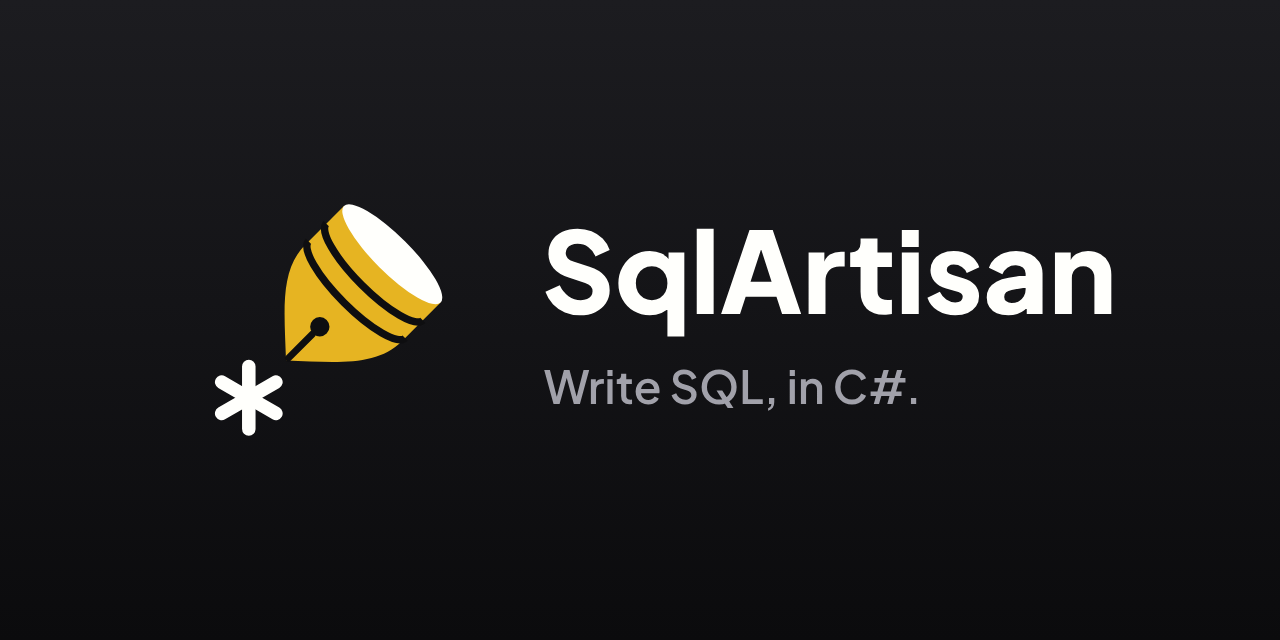
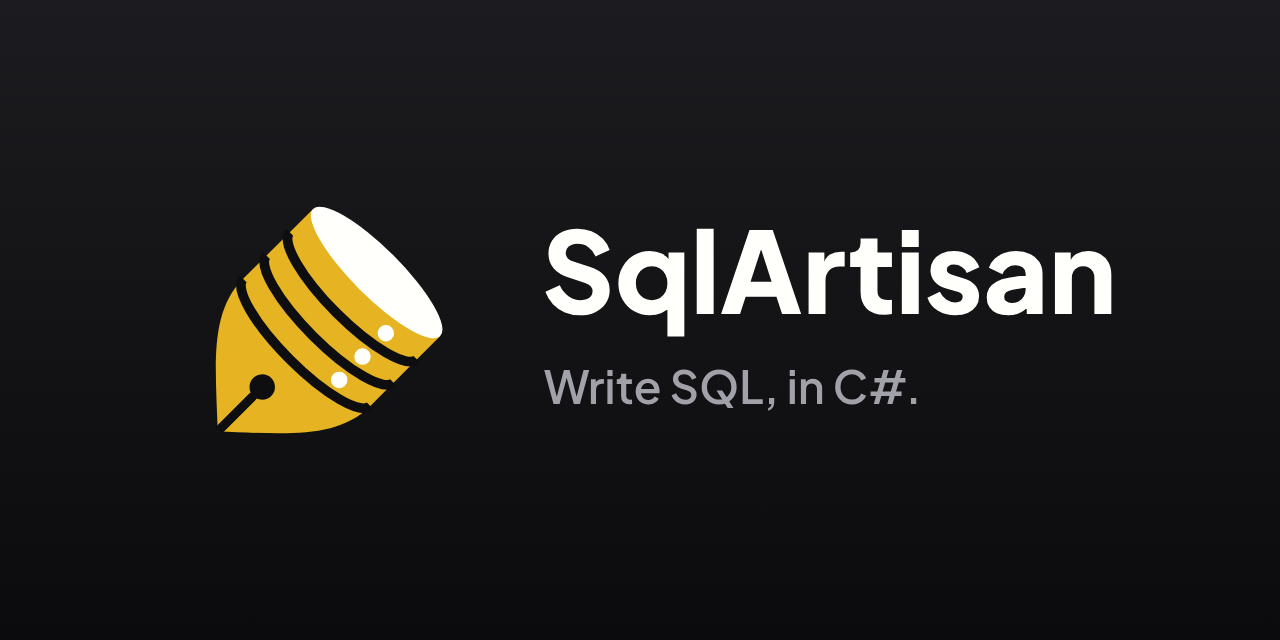
chore: Make the mark a nib cut from a stacked-disk database
The asterisk is gone: the pen alone, its body three stacked disks with a
light on each as the common database icon draws them, filling 69% of the
frame. docs/brand.md records why, and every color, face and proportion the
assets use; the social preview's SVG source is kept beside its PNG.

Claude-Session: https://claude.ai/code/session_01BXxxyWXz4Rjne6pSy1tMXN

Changed region(s): [[0.1562, 0.3125, 0.3438, 0.6875]]

diff --git a/docs/brand.md b/docs/brand.md
@@ -125,10 +125,10 @@ package ID and the namespace.
 
 Derived from the pillars and personality above; each rule names its source.
 
-- **Concept: a craftsman's tool meeting SQL.** The mark shows *Artisan* (a
-  hand tool) acting on *SQL* (a database or a code token, never letters: the
-  name sits beside the mark wherever it is shown small). A database cylinder
-  alone is generic and says neither half. *(Name)*
+- **Concept: a craftsman's tool made of the database.** The mark shows
+  *Artisan* (a hand tool) and the database it writes for as one shape, with no
+  letters or code glyph: the name sits beside the mark wherever it is shown
+  small. A database cylinder alone is generic and says neither half. *(Name)*
 - **Few, exact shapes.** Clean geometry, crisp edges, no 3D, gloss or texture
   that hides the form. The one allowance is the frame's: a faint top-to-bottom
   shade and a light edge, so a dark square keeps its outline on a dark page.
@@ -153,35 +153,40 @@ Derived from the pillars and personality above; each rule names its source.
 
 ## The mark
 
-A fountain-pen nib cut from a database cylinder, held at 45°, with the
-asterisk it has just written ahead of its tip.
+A fountain-pen nib cut from a database cylinder, held at 45°.
 
 | Part | Reads as |
 |---|---|
-| The pen's body: the lid and the two bands | the database the pen is cut from |
+| The white lid, three stacked disks and a white light on each | the database, drawn as the common database icon draws it |
 | The nib's point, slit and breather hole | writing by hand — the craft |
-| The `*` ahead of the tip | SQL (`SELECT *`), the thing written |
 
-The pen is shaped by the database because the library is: TableClassGen
-generates the table classes from the live schema, and the analyzer checks
-queries against what it records. So the mark reads as *SQL written with a tool
-cut to your database's shape*.
+**Why the pen is the database.** The library is shaped by the database it
+writes for: TableClassGen generates the table classes from the live schema, and
+the analyzer checks queries against what they record. So the mark reads as a
+tool cut to your database's shape.
 
-The nib is gold because working fountain-pen nibs are. A gold nib does not
-corrode in ink and flexes under the hand, so it lasts and writes smoothly —
-the robust and nimble traits in one material, and what it writes stays as
-written. The gold-on-black pairing also follows maki-e, gold drawn by hand
-onto black lacquer. The gold is the material of a working nib, not ornament,
-and the story is told that way.
+**Why gold.** Working fountain-pen nibs are gold: a gold nib does not corrode
+in ink and flexes under the hand, so it lasts and writes smoothly — the robust
+and nimble traits in one material — and what it writes stays as written.
+Gold on black also follows maki-e, gold drawn by hand onto black lacquer. The
+gold is the material of a working nib, not ornament, and the story is told
+that way.
 
-It carries no letters, so it has to be learned; until it is, it appears with
-the wordmark wherever the name is not already beside it.
+**Why no glyph.** An asterisk read as `SELECT *`, the wildcard at odds with
+a type-safe library's named columns, and is close to the spark several AI
+products use; a semicolon read as punctuation; the letters `SQL` vanished below
+64 px. The database's shape carries *SQL*, and the name beside the mark carries
+the rest. The mark has to be learned; until it is, it appears with the
+wordmark wherever the name is not already beside it.
+
+### Colors
 
 | Color | Hex | Used for |
 |---|---|---|
 | Gold (黄金) | `#E6B422` | The pen — the one accent |
-| Gofun white (胡粉色) | `#FFFFFC` | The lid and the asterisk |
-| Lacquer black | `#0E0E10` | The nib's cut lines; the frame shades from `#26262B` at the top to `#0B0B0D` |
+| Gofun white (胡粉色) | `#FFFFFC` | The lid, the disks' lights, the wordmark on dark |
+| Lacquer black | `#0E0E10` | The nib's cut lines and the wordmark on light |
+| Frame shade | `#26262B` → `#0B0B0D` | The frame, top to bottom |
 | Edge | `#3A3A40` | The frame's outline, so the square holds on dark pages |
 | Muted | `#A1A1AA` | Secondary text on black |
 
@@ -189,21 +194,38 @@ Gold and gofun white are commonly cited values for the traditional Japanese
 colors of those names; references differ slightly. The black is neutral rather
 than the traditional 漆黒, whose violet cast tints the frame.
 
+### Type
+
+Plus Jakarta Sans, under the SIL Open Font License: ExtraBold for the
+wordmark, SemiBold for secondary text, kerned and outlined in the asset files
+so no viewer needs the font.
+
+### Proportions
+
+| Element | Value |
+|---|---|
+| Frame | 512 grid, corner radius 104, a 10-unit edge inside the square |
+| Pen | 45°; its bounding box fills 69% of the frame, centered |
+| Pen body | A cylinder of radius 120 (lid ellipse 120 × 32) holding three 44-unit disks, divided by 13-unit black arcs; each disk's light has radius 11, at 55% of the radius to the right |
+| Lockup | The wordmark's capitals stand 52% of the icon's height, a quarter of that height from it |
+| Social preview | 1280 × 640; the pen 330 units wide; wordmark capitals 84, tagline capitals 34 |
+
+The pen fills 69% rather than more because it is a solid mass: a heavy mark
+needs more clear space than a line mark of the same size to look the same size.
+
 **Files** (`assets/`):
 
 | File | Use |
 |---|---|
-| `icon.svg` | The source of every other file |
+| `icon.svg` | The source of the mark; every other file embeds it |
 | `icon.png` | 128 px, packed as every NuGet package's icon |
-| `logo.svg`, `logo-dark.svg` | Mark beside the wordmark, for light and dark backgrounds: the capitals stand 52% of the icon's height, a quarter of it apart |
-| `social-preview.png` | 1280 × 640, the GitHub repository's social preview |
+| `logo.svg`, `logo-dark.svg` | Mark beside the wordmark, for light and dark backgrounds |
+| `social-preview.svg`, `social-preview.png` | 1280 × 640, the GitHub repository's social preview |
 
-**Rules.** The pen and asterisk fill about 70% of the frame, the asterisk
-large enough to stay an asterisk at 32 px. The asterisk stays clear of the tip:
-touching, it reads as hanging from the nib, and placed on the nib face it reads
-as something else entirely. The 45° angle is the mark's one moving element, so
-it is not straightened. The colors are not swapped or recolored, and the mark
-is not shown below 32 px.
+**Rules.** The 45° angle is the mark's one moving element, so it is not
+straightened: upright, the nib's outline reads as a shield. The colors are not
+swapped or recolored, and the mark is not shown below 32 px, where the disks'
+lights disappear but the stacked disks still read.
 
 ## Touchpoints
 
